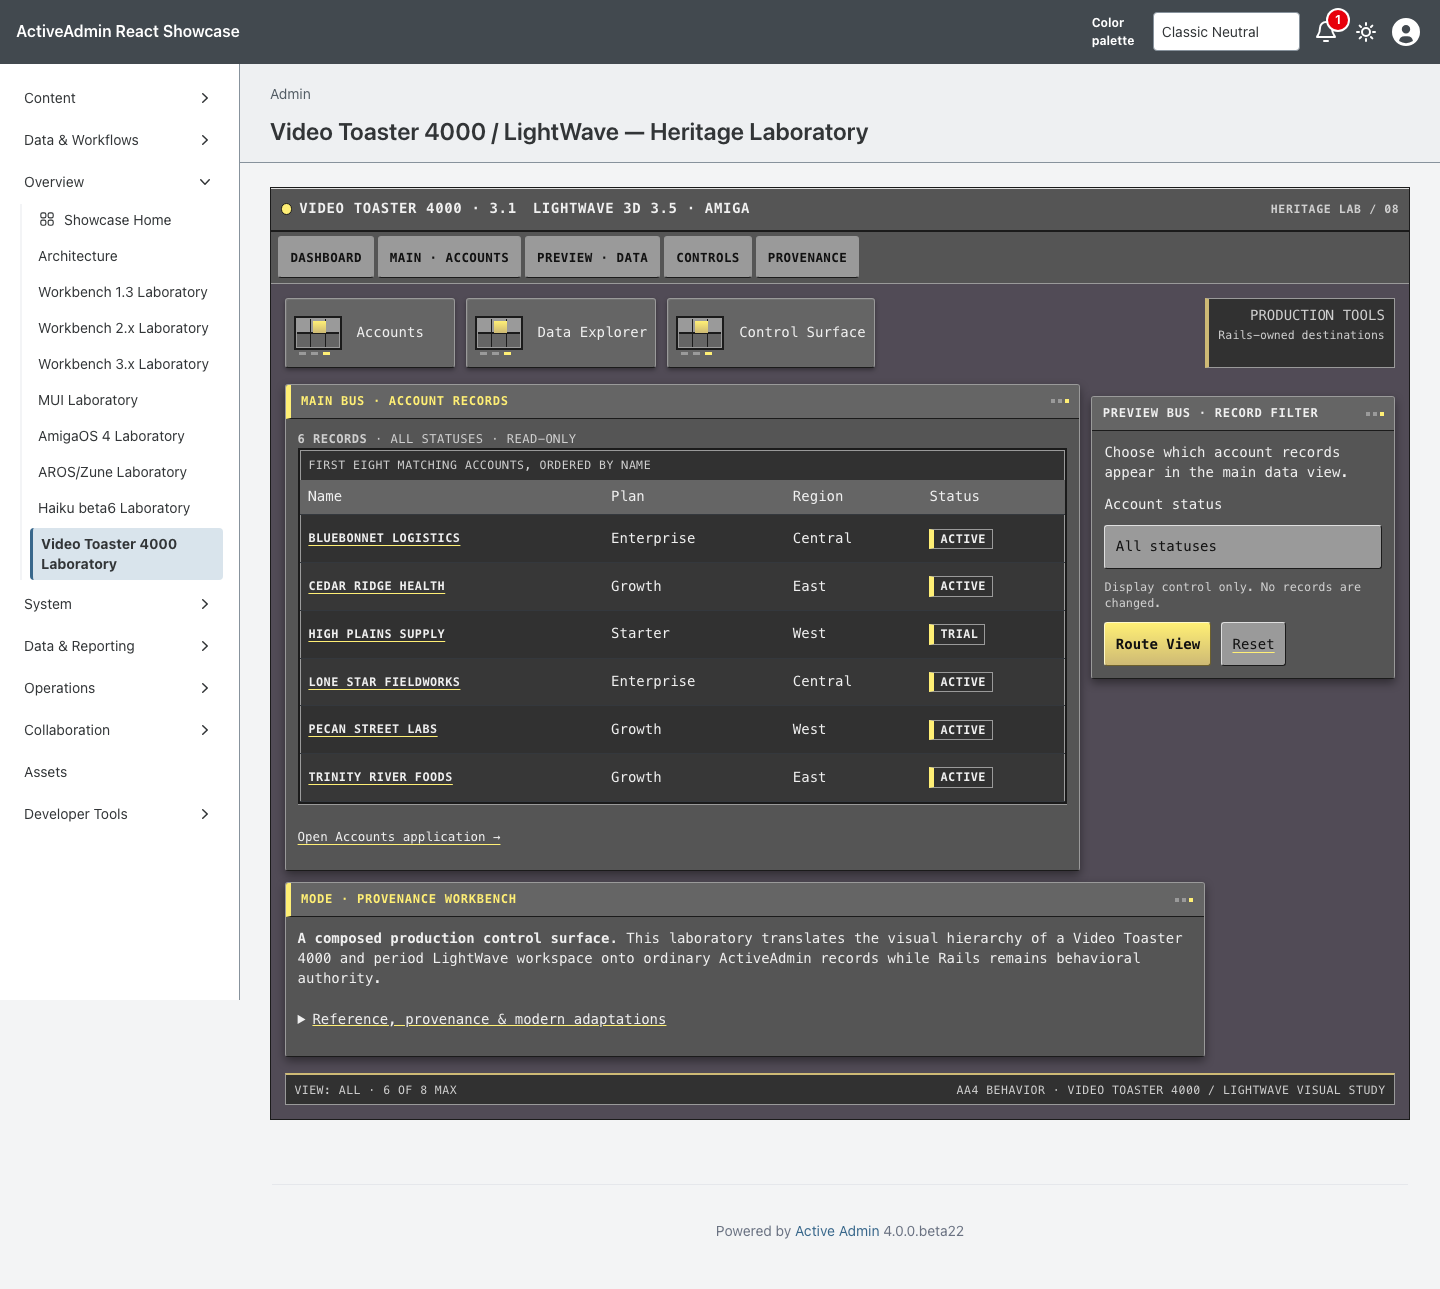
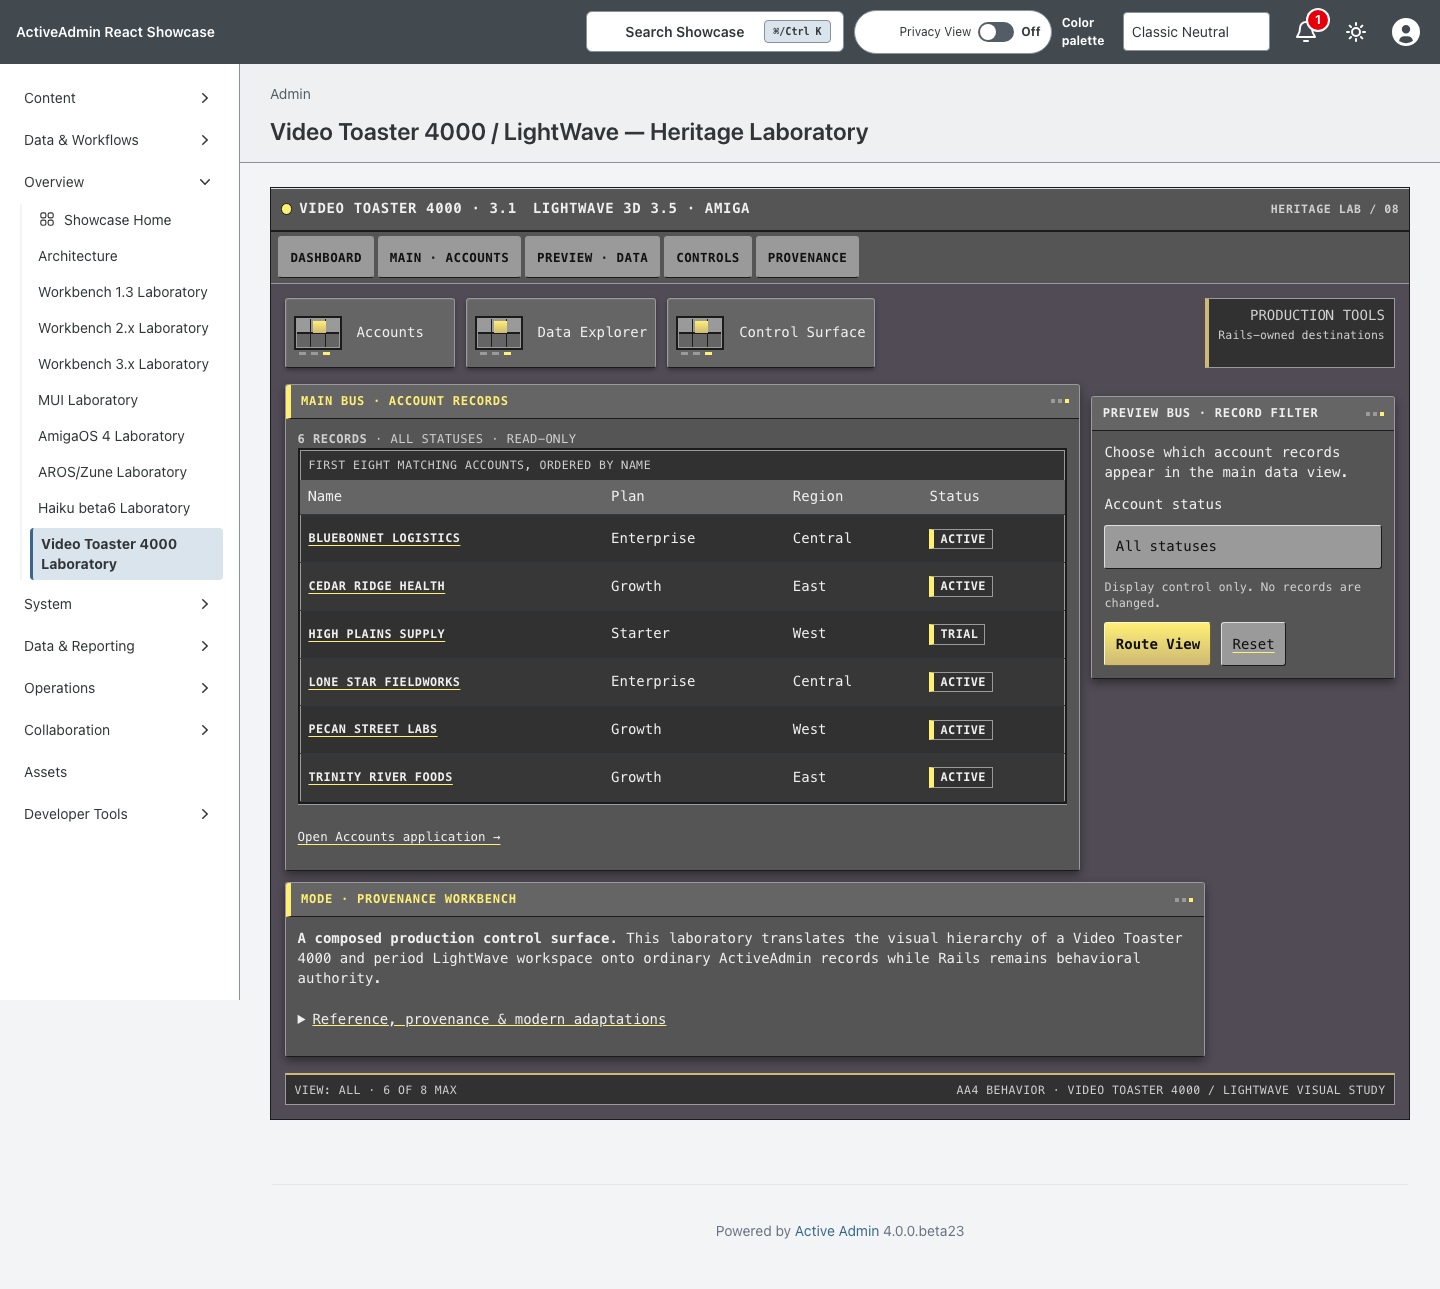
docs: refresh Video Toaster consumer evidence

Changed region(s): [[0.4062, 0.0, 0.9688, 0.0621], [0.0, 0.0, 0.1562, 0.031]]

diff --git a/docs/heritage-video-toaster-4000.md b/docs/heritage-video-toaster-4000.md
@@ -7,8 +7,8 @@ Visit `/admin/video_toaster_4000_laboratory` after signing in, or choose
 **Overview → Video Toaster 4000 Laboratory**. It is a separate production-tool
 study rather than a skin on the Haiku beta6 or Amiga laboratories.
 
-Presentation comes from the stacked `activeadmin-themes` Video Toaster 4000
-theme at exact head `26a7cd6f7b4df39e61e33bfb12e77ec50d0f8bb0`.
+Presentation comes from `activeadmin-themes` 0.2.0 at exact merged commit
+`96db6599a0668cfa2338769b35b38262ba9f49d1`.
 Showcase maps the gem's immutable 24 semantic roles onto
 host-owned Rails markup and keeps routes, records, authorization, filtering,
 accessibility, and native behavior local. It contains no Showcase presentation
@@ -72,14 +72,14 @@ filtering/navigation, reduced motion, forced colors, and a no-JavaScript path.
 Actual browser 200% zoom, physical devices, and additional engines are not
 claimed. A 390px viewport is responsive evidence, not genuine browser zoom.
 
-The host pins `activeadmin-themes` exact head
-`26a7cd6f7b4df39e61e33bfb12e77ec50d0f8bb0`; installed Video Toaster 4000 CSS
+The host pins `activeadmin-themes` 0.2.0 at exact merged commit
+`96db6599a0668cfa2338769b35b38262ba9f49d1`; installed Video Toaster 4000 CSS
[1 lines of base64/hex data omitted]
 
 ## Screenshot Provenance
 
 Captured from implementation source
-`0067c5921654d74996f9f979579b4a39b9fe5f5a` on September 22, 2026, using
+`fc820afbc0f566176c32656e2570007568535c81` on September 28, 2026, using
 Playwright 1.63.0 / Chromium 153.0.8010.12 on macOS 26.7. Seeded synthetic
 accounts, default zoom, and a fresh page/context were used for each 1440×1000
 desktop and 390×1000 narrow viewport capture. The full-page images are taller
@@ -87,7 +87,7 @@ than those viewports because they preserve the complete rendered document.
 Both images were visually inspected before review.
 
 ```sh
-CAPTURE_SHOWCASE_SCREENSHOTS=1 CI=1 PLAYWRIGHT_PORT=3192 mise exec -- npx playwright test test/browser/video_toaster_4000_laboratory.spec.ts
+CAPTURE_SHOWCASE_SCREENSHOTS=1 CI=1 PLAYWRIGHT_PORT=3222 VITE_RUBY_SKIP_PROXY=true mise exec -- npx playwright test test/browser/video_toaster_4000_laboratory.spec.ts
 ```
 
 ![Desktop Video Toaster 4000 and LightWave study](screenshots/video-toaster-4000-1440.png)
@@ -97,13 +97,9 @@ CAPTURE_SHOWCASE_SCREENSHOTS=1 CI=1 PLAYWRIGHT_PORT=3192 mise exec -- npx playwr
 SHA256:
 
 ```text
-video-toaster-4000-1440.png  61bbccd5502ec14ee738bb1cbe49f752d1dab58b17bd264f59f8d12141bfc3f7
-video-toaster-4000-390.png   857f6510f589675f37385c1ecb5cc9c15fd63a1f86d297342e433b37201dd7ef
+video-toaster-4000-1440.png  9ccc833f829ada747e35487f903d01c770f3b3e7526cd13437ed8cdf659f9ad1
+video-toaster-4000-390.png   8c6c519326f21e62f1be26bf803470756b0cf7b1b43433d095fb9d8e67d5d939
 ```
-
-At 390px, the host's existing global color-palette selector truncates its
-visible “Classic Neutral” label outside the route-scoped theme workspace. This
-pre-existing shell issue is disclosed rather than patched in this slice.
 
 ## Collection Remains Open
 
